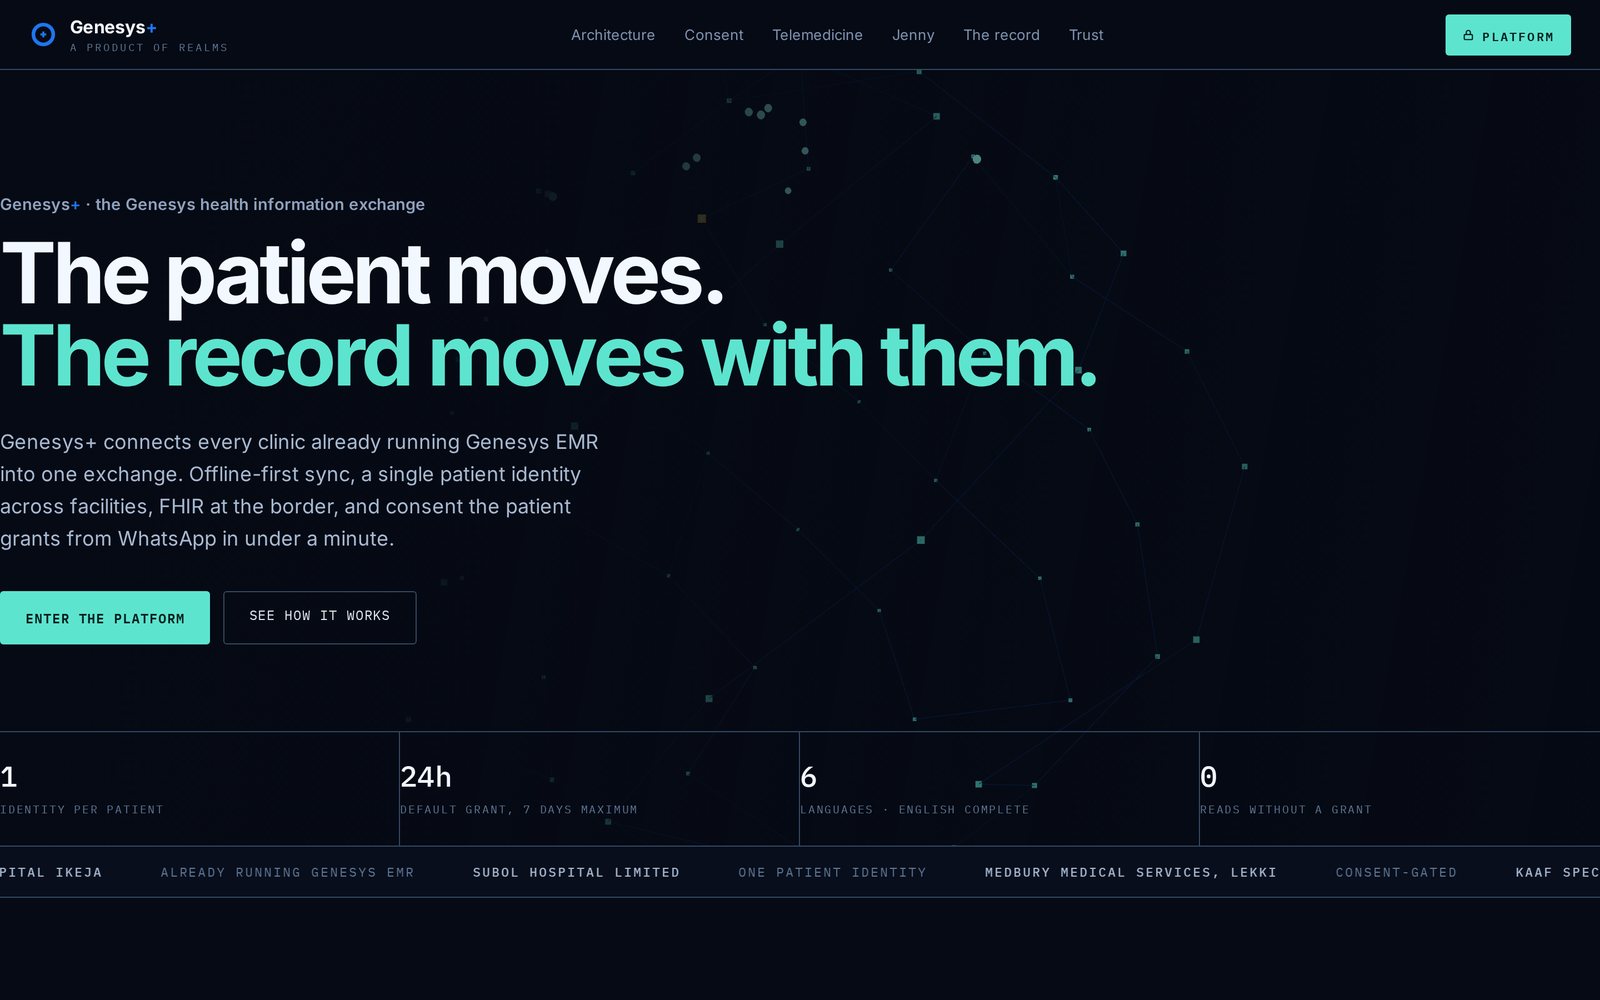
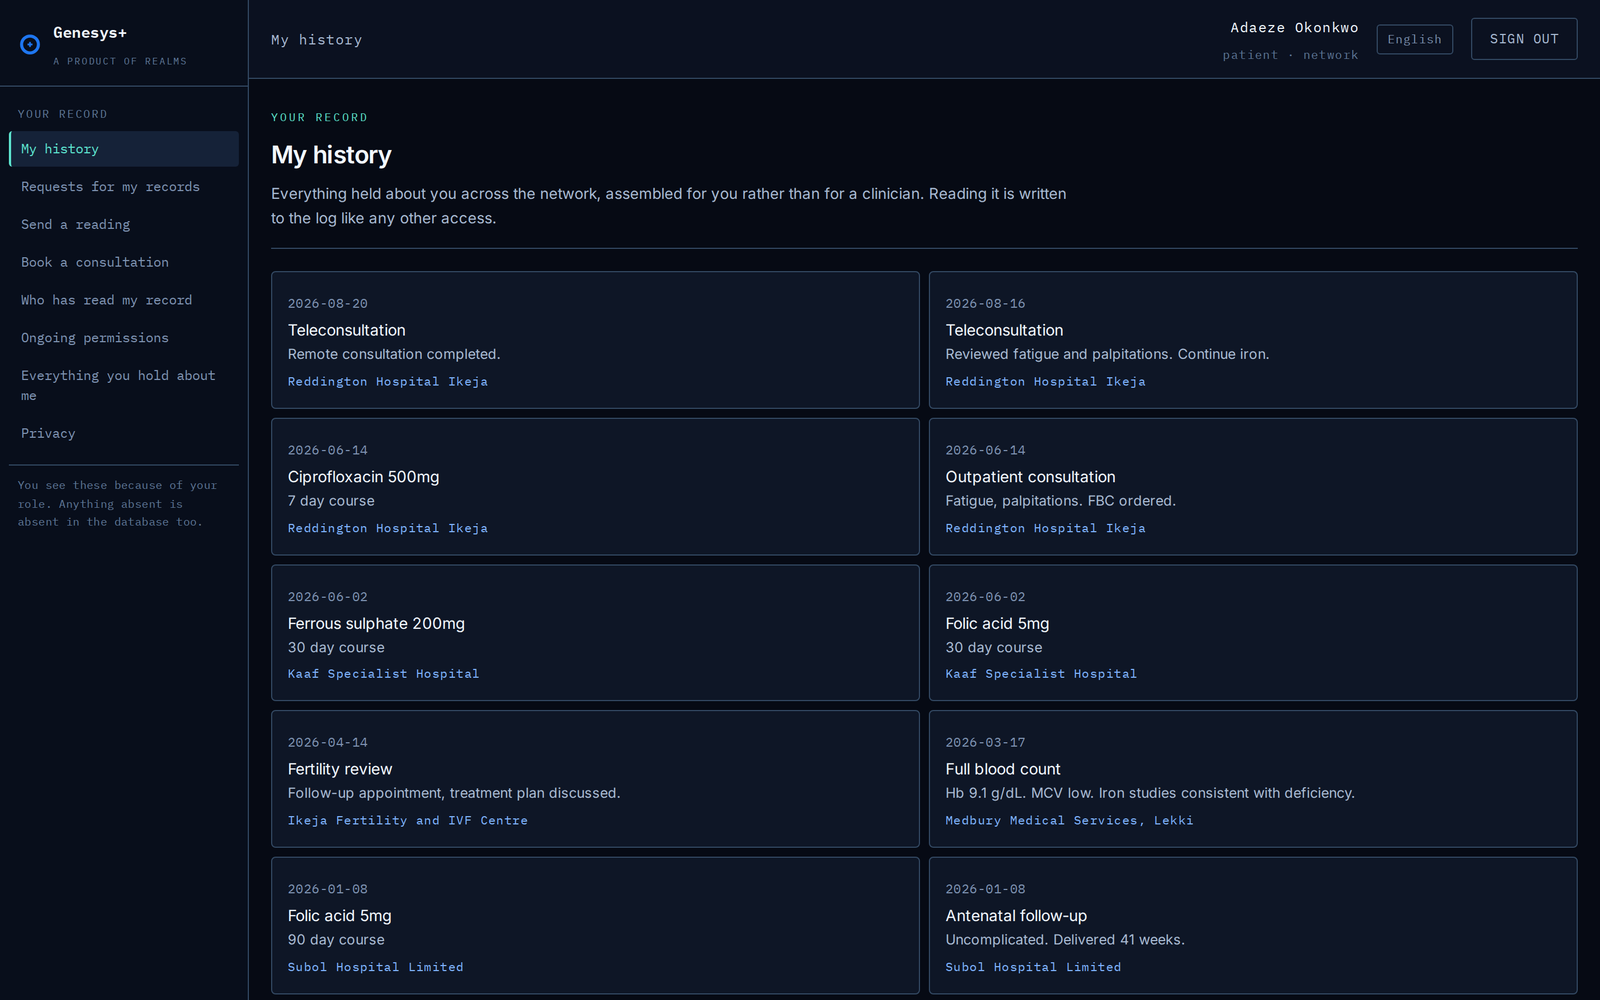
Add files via upload

diff --git a/src/App.jsx b/src/App.jsx
@@ -4,7 +4,7 @@ import 'leaflet/dist/leaflet.css'
 import { supabase, MODE } from './supabaseClient.js'
 import { facilities as FAC, assignments as ASG, visits as VIS, notifications as NOTIF, calls as CALLS, access as ACC, roles as ROLEMGR, facilitiesFromCSV, orderRoute, clusterDays, clusterDaysByDate, googleMapsDirUrl, geocode, uploadEvidence, sendNotify, askAI, seedSampleData, clearAllData } from './data.js'
 
-const BUILD = 'field-2026-07-18-av'
+const BUILD = 'field-2026-07-18-aw'
 
 /*
   REALMS FIELD — Stages 1 to 3 (single-file App.jsx + supabaseClient.js + data.js)
@@ -455,12 +455,8 @@ function GenesysPlusPage({ go }) {
         <p>It is a Realms product, built on the installed base of the Genesys Electronic Medical Records platform so that hospitals already using Genesys can connect without changing how they work.</p>
         <div className="cta-row"><button className="btn primary" onClick={() => window.open(GENESYS_PLUS_URL, '_blank')}>Visit Genesys+ &#8599;</button><button className="btn ghost" onClick={() => go('contact')}>Talk to us</button></div>
       </div>
-      <div className="mon-lead-art"><img src="/photos/g-network.jpg" alt="Connected hospitals exchanging records under consent" /></div>
+      <div className="mon-lead-art gp-shot"><img src="/photos/genesys-plus-product.png" alt="The Genesys+ platform: a patient's unified record across facilities" /></div>
     </div>
-    <figure className="product-shot reveal">
-      <div className="shot-frame"><span className="shot-dots" aria-hidden="true"><i /><i /><i /></span><img src="/photos/genesys-plus-product.png" alt="The Genesys+ platform: the patient moves, the record moves with them" /></div>
-      <figcaption>The Genesys+ platform at genesysplus.net</figcaption>
-    </figure>
     <div className="pillars">{features.map((p, i) => (<article className="pillar reveal" key={p.t} style={{ transitionDelay: (i % 2 * 70) + 'ms' }}><span className="pillar-rule" aria-hidden="true" /><h3>{p.t}</h3><p>{p.d}</p></article>))}</div>
     <div className="own-note reveal">
       <h3>How Genesys+ and Genesys relate</h3>
@@ -4989,13 +4985,8 @@ const css = `
 
 /* pillar photos + about lead */
 
-.realms .product-shot { margin:clamp(30px,5vw,60px) auto; max-width:1000px; text-align:center; }
-.realms .shot-frame { position:relative; border-radius:16px; overflow:hidden; border:1px solid var(--line); box-shadow:0 30px 70px rgba(87,66,119,.18); background:#0A1A24; }
-.realms .shot-frame img { display:block; width:100%; height:auto; }
-.realms .shot-dots { position:absolute; top:12px; left:14px; z-index:2; display:flex; gap:7px; }
-.realms .shot-dots i { width:11px; height:11px; border-radius:50%; background:rgba(255,255,255,.35); }
-.realms .shot-dots i:first-child { background:#FF5F57; } .realms .shot-dots i:nth-child(2){ background:#FEBC2E; } .realms .shot-dots i:nth-child(3){ background:#28C840; }
-.realms .product-shot figcaption { margin-top:14px; font-size:13.5px; color:#8A7AA6; font-style:italic; }
+.realms .gp-shot { border-radius:14px; overflow:hidden; border:1px solid var(--line); box-shadow:0 26px 60px rgba(87,66,119,.18); background:#0A1A24; align-self:stretch; }
+.realms .gp-shot img { display:block; width:100%; height:100%; object-fit:cover; object-position:top left; }
 
 .realms .pillar.photo { padding-top:0; overflow:hidden; }
 .realms .pillar-img { margin:-1px -28px 20px; height:300px; overflow:hidden; }
